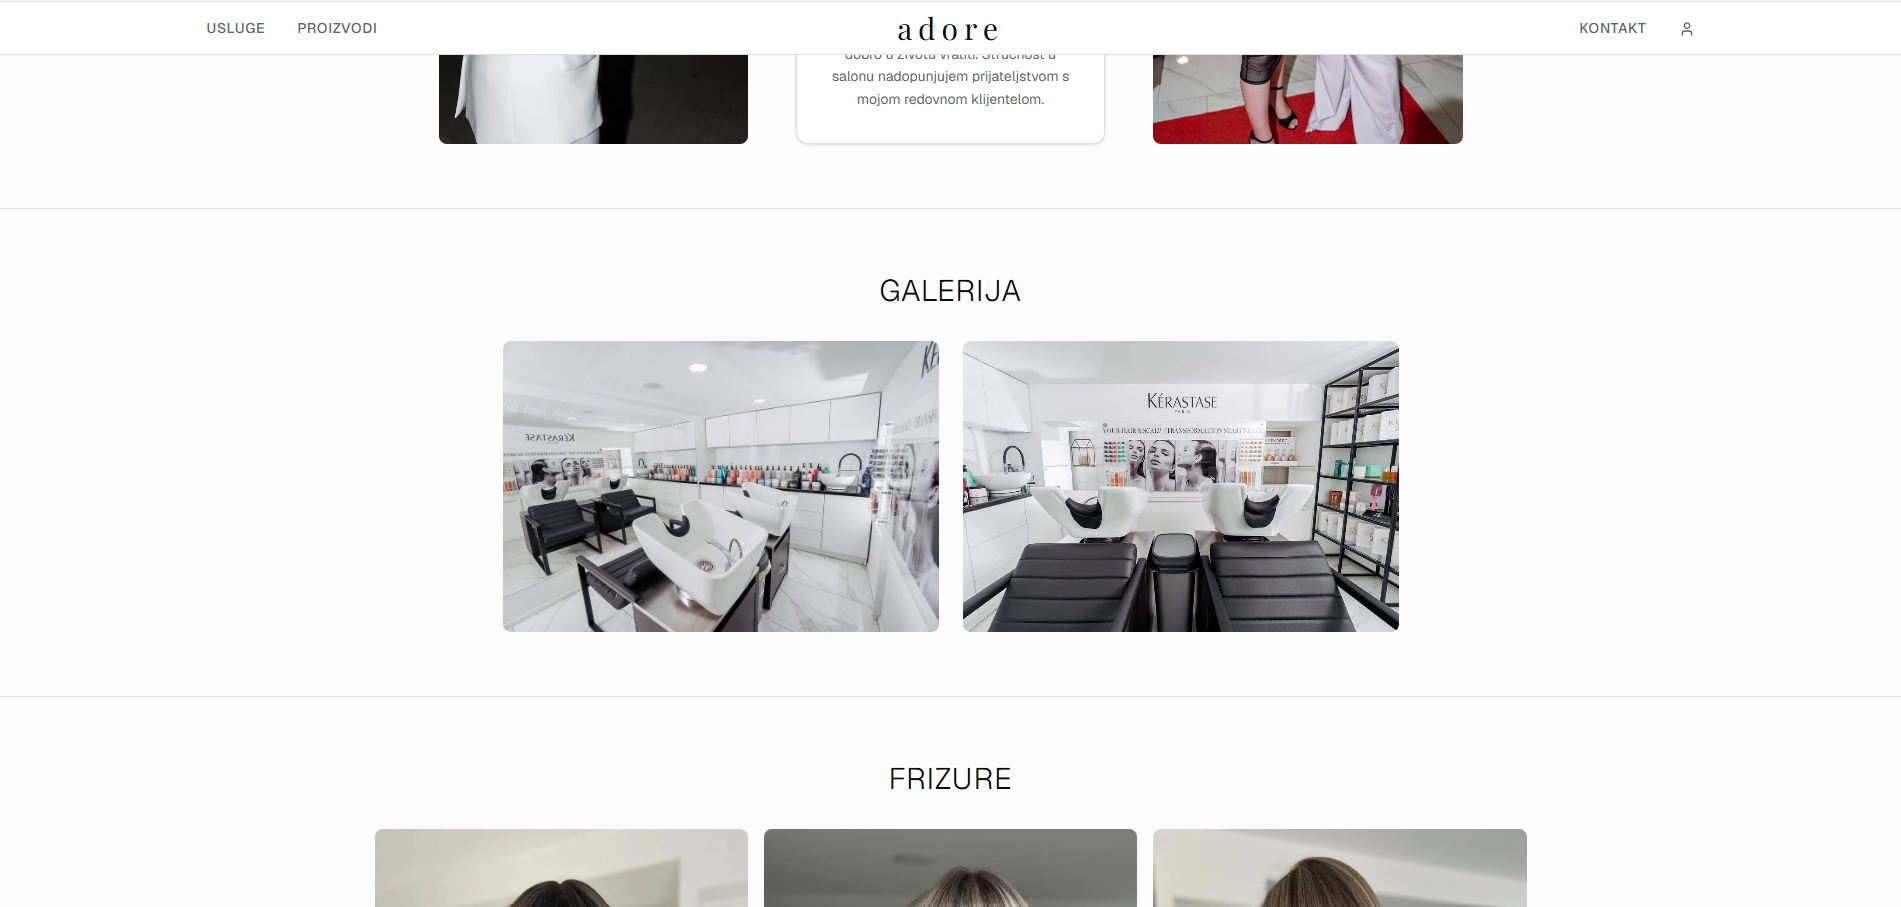
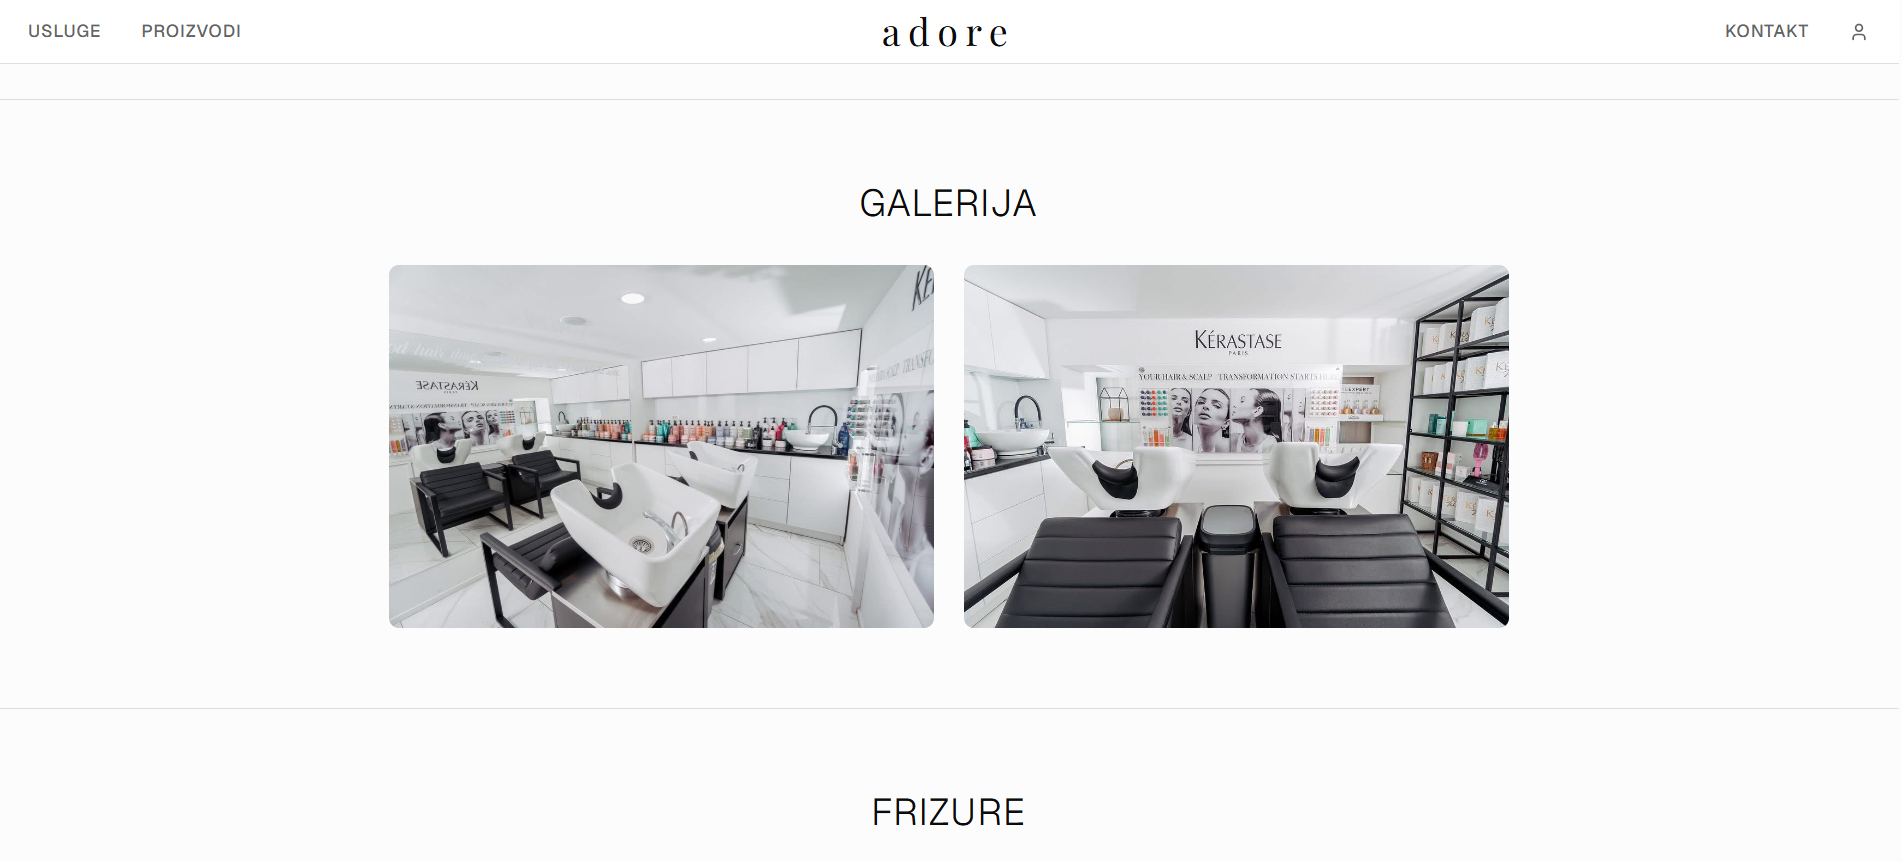
Gallery expansion

diff --git a/src/sections/Projects.jsx b/src/sections/Projects.jsx
@@ -20,10 +20,18 @@ import corporeContact from "../assets/images/projects/corporesano/contact.png";
 
 import salonHome1 from "../assets/images/projects/hairsalon/home1.png";
 import salonHome2 from "../assets/images/projects/hairsalon/home2.png";
+import salonHome3 from "../assets/images/projects/hairsalon/home3.png";
+import salonContact from "../assets/images/projects/hairsalon/contact.png";
+import salonProducts from "../assets/images/projects/hairsalon/products.png";
 
 
 // REACT
 import vodovodDashboard from "../assets/images/projects/vodovod/dashboard.png";
+import vodovodBrojila from "../assets/images/projects/vodovod/brojila.png";
+import vodovodRacuni from "../assets/images/projects/vodovod/racuni.png";
+import vodovodKvar from "../assets/images/projects/vodovod/kvar.png";
+import vodovodKorisnici from "../assets/images/projects/vodovod/korisnici.png";
+
 import elabLogin from "../assets/images/projects/elab/login.png";
 import elabNalazi from "../assets/images/projects/elab/nalazi.png";
 import elabPacijent from "../assets/images/projects/elab/pacijent.png";
@@ -59,6 +67,71 @@ const projects = [
     ],
     github: "",
     liveDemo: "https://www.socialpass.net",
+  },
+  {
+    title: "Waterworks Information System",
+    type: "desktop",
+
+    description:
+      "Information system developed with React and Node.js for managing water utility operations and customer data.",
+    technologies: [
+      "React",
+      "Node.js",
+      "MySQL",
+    ],
+    images: [
+      vodovodDashboard,
+      vodovodBrojila,
+      vodovodRacuni,
+      vodovodKvar,
+      vodovodKorisnici,
+    ],
+    github: "https://github.com/abidabiogradlija/Waterworks-Vodovod",
+    liveDemo: "",
+  },
+
+  {
+    title: "Adore Hair Salon Management",
+    type: "desktop",
+
+    description:
+      "Modern responsive salon website with gallery, services and landing page built using TypeScript, CSS, MySql.",
+    technologies: [
+      "TypeScript",
+      "CSS3",
+    ],
+    images: [
+      salonHome1,
+      salonHome2,
+      salonHome3,
+      salonContact,
+      salonProducts,
+
+    ],
+    github: "https://github.com/abidabiogradlija/Web-Programiranje-Frizerski-Salon",
+    liveDemo: "",
+  },
+
+  {
+    title: "eLaboratory",
+    type: "desktop",
+
+    description:
+      "Healthcare application for patient login and laboratory result management with a clean and intuitive interface.",
+    technologies: [
+      "React",
+      "Node.js",
+      "MySQL",
+      "JavaScript",
+    ],
+    images: [
+      elabLogin,
+      elabNalazi,
+      elabPacijent,
+      elabPosiljka,
+    ],
+    github: "https://github.com/abidabiogradlija/elab",
+    liveDemo: "",
   },
 
   {
@@ -99,66 +172,6 @@ const projects = [
       corporeContact,
     ],
     github: "https://github.com/abidabiogradlija/HTML-CSS/tree/master/Corpore%20Sano",
-    liveDemo: "",
-  },
-
-  {
-    title: "Hair Salon Management",
-    type: "desktop",
-
-    description:
-      "Modern responsive salon website with gallery, services and landing page built using HTML, CSS and JavaScript.",
-    technologies: [
-      "TypeScript",
-      "CSS3",
-    ],
-    images: [
-      salonHome1,
-      salonHome2,
-    ],
-    github: "https://github.com/abidabiogradlija/Web-Programiranje-Frizerski-Salon",
-    liveDemo: "",
-  },
-
-  {
-    title: "Vodovod Information System",
-    type: "desktop",
-
-    description:
-      "Information system developed with React and Node.js for managing water utility operations and customer data.",
-    technologies: [
-      "React",
-      "Node.js",
-      "MySQL",
-      "JavaScript",
-
-    ],
-    images: [
-      vodovodDashboard,
-    ],
-    github: "https://github.com/abidabiogradlija/Waterworks-Vodovod",
-    liveDemo: "",
-  },
-
-  {
-    title: "eLaboratory",
-    type: "desktop",
-
-    description:
-      "Healthcare application for patient login and laboratory result management with a clean and intuitive interface.",
-    technologies: [
-      "React",
-      "Node.js",
-      "MySQL",
-      "JavaScript",
-    ],
-    images: [
-      elabLogin,
-      elabNalazi,
-      elabPacijent,
-      elabPosiljka,
-    ],
-    github: "https://github.com/abidabiogradlija/elab",
     liveDemo: "",
   },
 